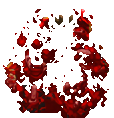
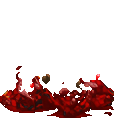
textures

diff --git a/object_renderer.py b/object_renderer.py
@@ -1,23 +1,33 @@
-import pygame as pg
+import os
 from settings import *
+import pygame as pg
 
 class ObjectRenderer:
     def __init__(self, game):
         self.game = game
         self.screen = game.screen
         self.wall_textures = self.load_wall_textures()
-        self.sky_image = self.get_texture('resources/textures/sky.png', (WIDTH, HALF_HEIGHT))
+        self.sky_images = self.load_sky_images()
+        self.current_sky_index = 0
         self.sky_offset = 0
+        self.animation_speed = 10
+        self.frame_count = 0
 
     def draw(self):
         self.draw_background()
         self.render_game_objects()
 
     def draw_background(self):
+        self.frame_count += 1
+        if self.frame_count >= self.animation_speed:
+            self.frame_count = 0
+            self.current_sky_index = (self.current_sky_index + 1) % len(self.sky_images)
+
+        current_sky_image = self.sky_images[self.current_sky_index]
         self.sky_offset = (self.sky_offset + 4.5 * self.game.player.rel) % WIDTH
-        self.screen.blit(self.sky_image, (-self.sky_offset, 0))
-        self.screen.blit(self.sky_image, (-self.sky_offset + WIDTH, 0))
-        # floor
+        self.screen.blit(current_sky_image, (-self.sky_offset, 0))
+        self.screen.blit(current_sky_image, (-self.sky_offset + WIDTH, 0))
+
         pg.draw.rect(self.screen, FLOOR_COLOR, (0, HALF_HEIGHT, WIDTH, HEIGHT))
 
     def render_game_objects(self):
@@ -38,3 +48,12 @@ class ObjectRenderer:
             4: self.get_texture('resources/textures/4.png'),
             5: self.get_texture('resources/textures/5.png'),
         }
+
+    def load_sky_images(self):
+        sky_images = []
+        sky_folder = 'resources/textures/sky'
+        for file_name in sorted(os.listdir(sky_folder)):
+            if file_name.endswith('.png'):
+                path = os.path.join(sky_folder, file_name)
+                sky_images.append(self.get_texture(path, (WIDTH, HALF_HEIGHT)))
+        return sky_images

diff --git a/map.py b/map.py
@@ -2,15 +2,15 @@ import pygame as pg
 
 _ = False
 mini_map = [
-    [1, 1, 1, 1, 1, 1, 1, 1, 1, 1, 1, 1, 1, 1, 1, 1],
-    [1, _, _, _, _, _, _, _, _, _, _, 1, _, _, _, 1],
-    [1, _, _, _, _, 1, 1, 1, _, _, _, 1, _, _, _, 1],
-    [1, _, _, _, _, 1, _, _, _, _, 1, 1, _, _, _, 1],
-    [1, _, _, _, _, 1, _, _, _, _, _, _, _, _, _, 1],
-    [1, _, _, 1, 1, 1, _, _, _, _, _, _, _, _, _, 1],
-    [1, _, _, _, _, _, _, _, 1, 1, 1, 1, _, _, _, 1],
-    [1, _, _, _, _, _, _, _, _, _, _, _, _, _, _, 1],
-    [1, 1, 1, 1, 1, 1, 1, 1, 1, 1, 1, 1, 1, 1, 1, 1],
+    [2, 3, 2, 2, 2, 3, 2, 2, 5, 1, 1, 1, 1, 1, 1, 1],
+    [4, _, _, _, _, _, _, _, _, _, _, 1, _, _, _, 2],
+    [2, _, _, _, _, 2, 2, 2, _, _, _, 5, _, _, _, 2],
+    [2, _, _, _, _, 3, _, _, _, _, 1, 1, _, _, _, 3],
+    [3, _, _, _, _, 2, _, _, _, _, _, _, _, _, _, 4],
+    [2, _, _, 2, 4, 2, _, _, _, _, _, _, _, _, _, 2],
+    [5, _, _, _, _, _, _, _, 1, 5, 1, 1, _, _, _, 2],
+    [1, _, _, _, _, _, _, _, _, _, _, _, _, _, _, 3],
+    [1, 1, 1, 1, 1, 1, 1, 1, 1, 1, 1, 1, 5, 1, 1, 1],
 ]
 
 class Map:
